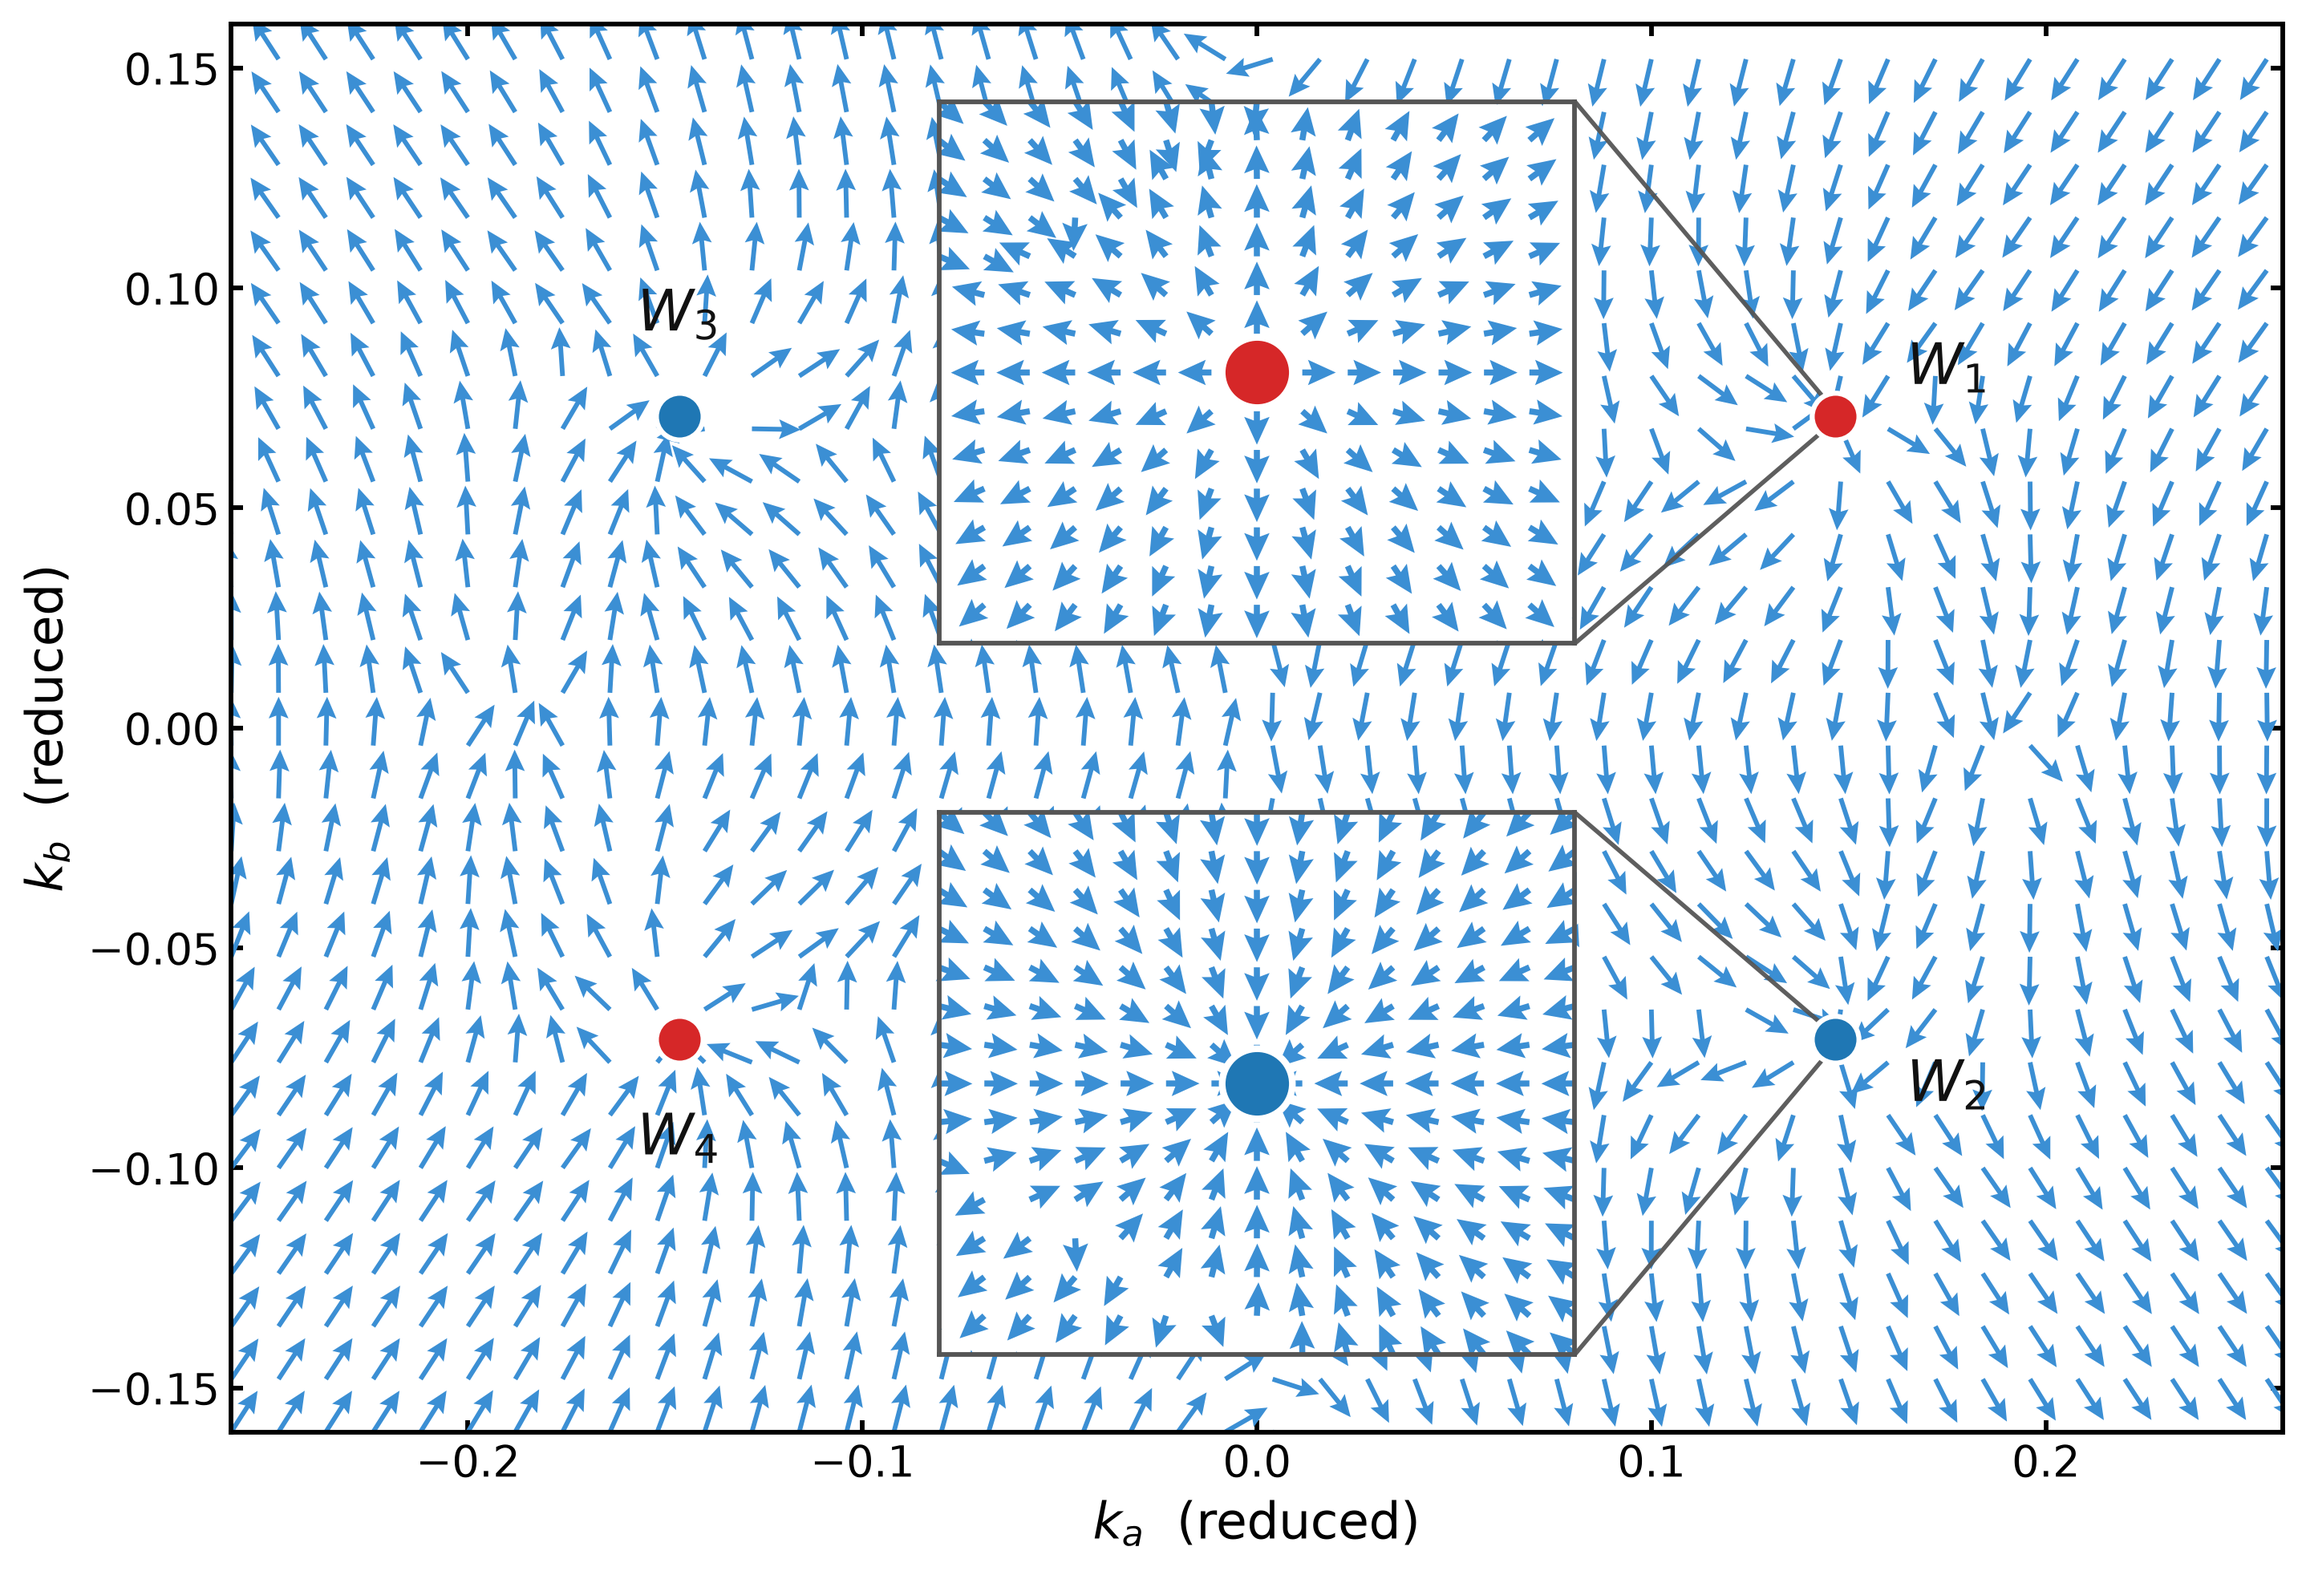
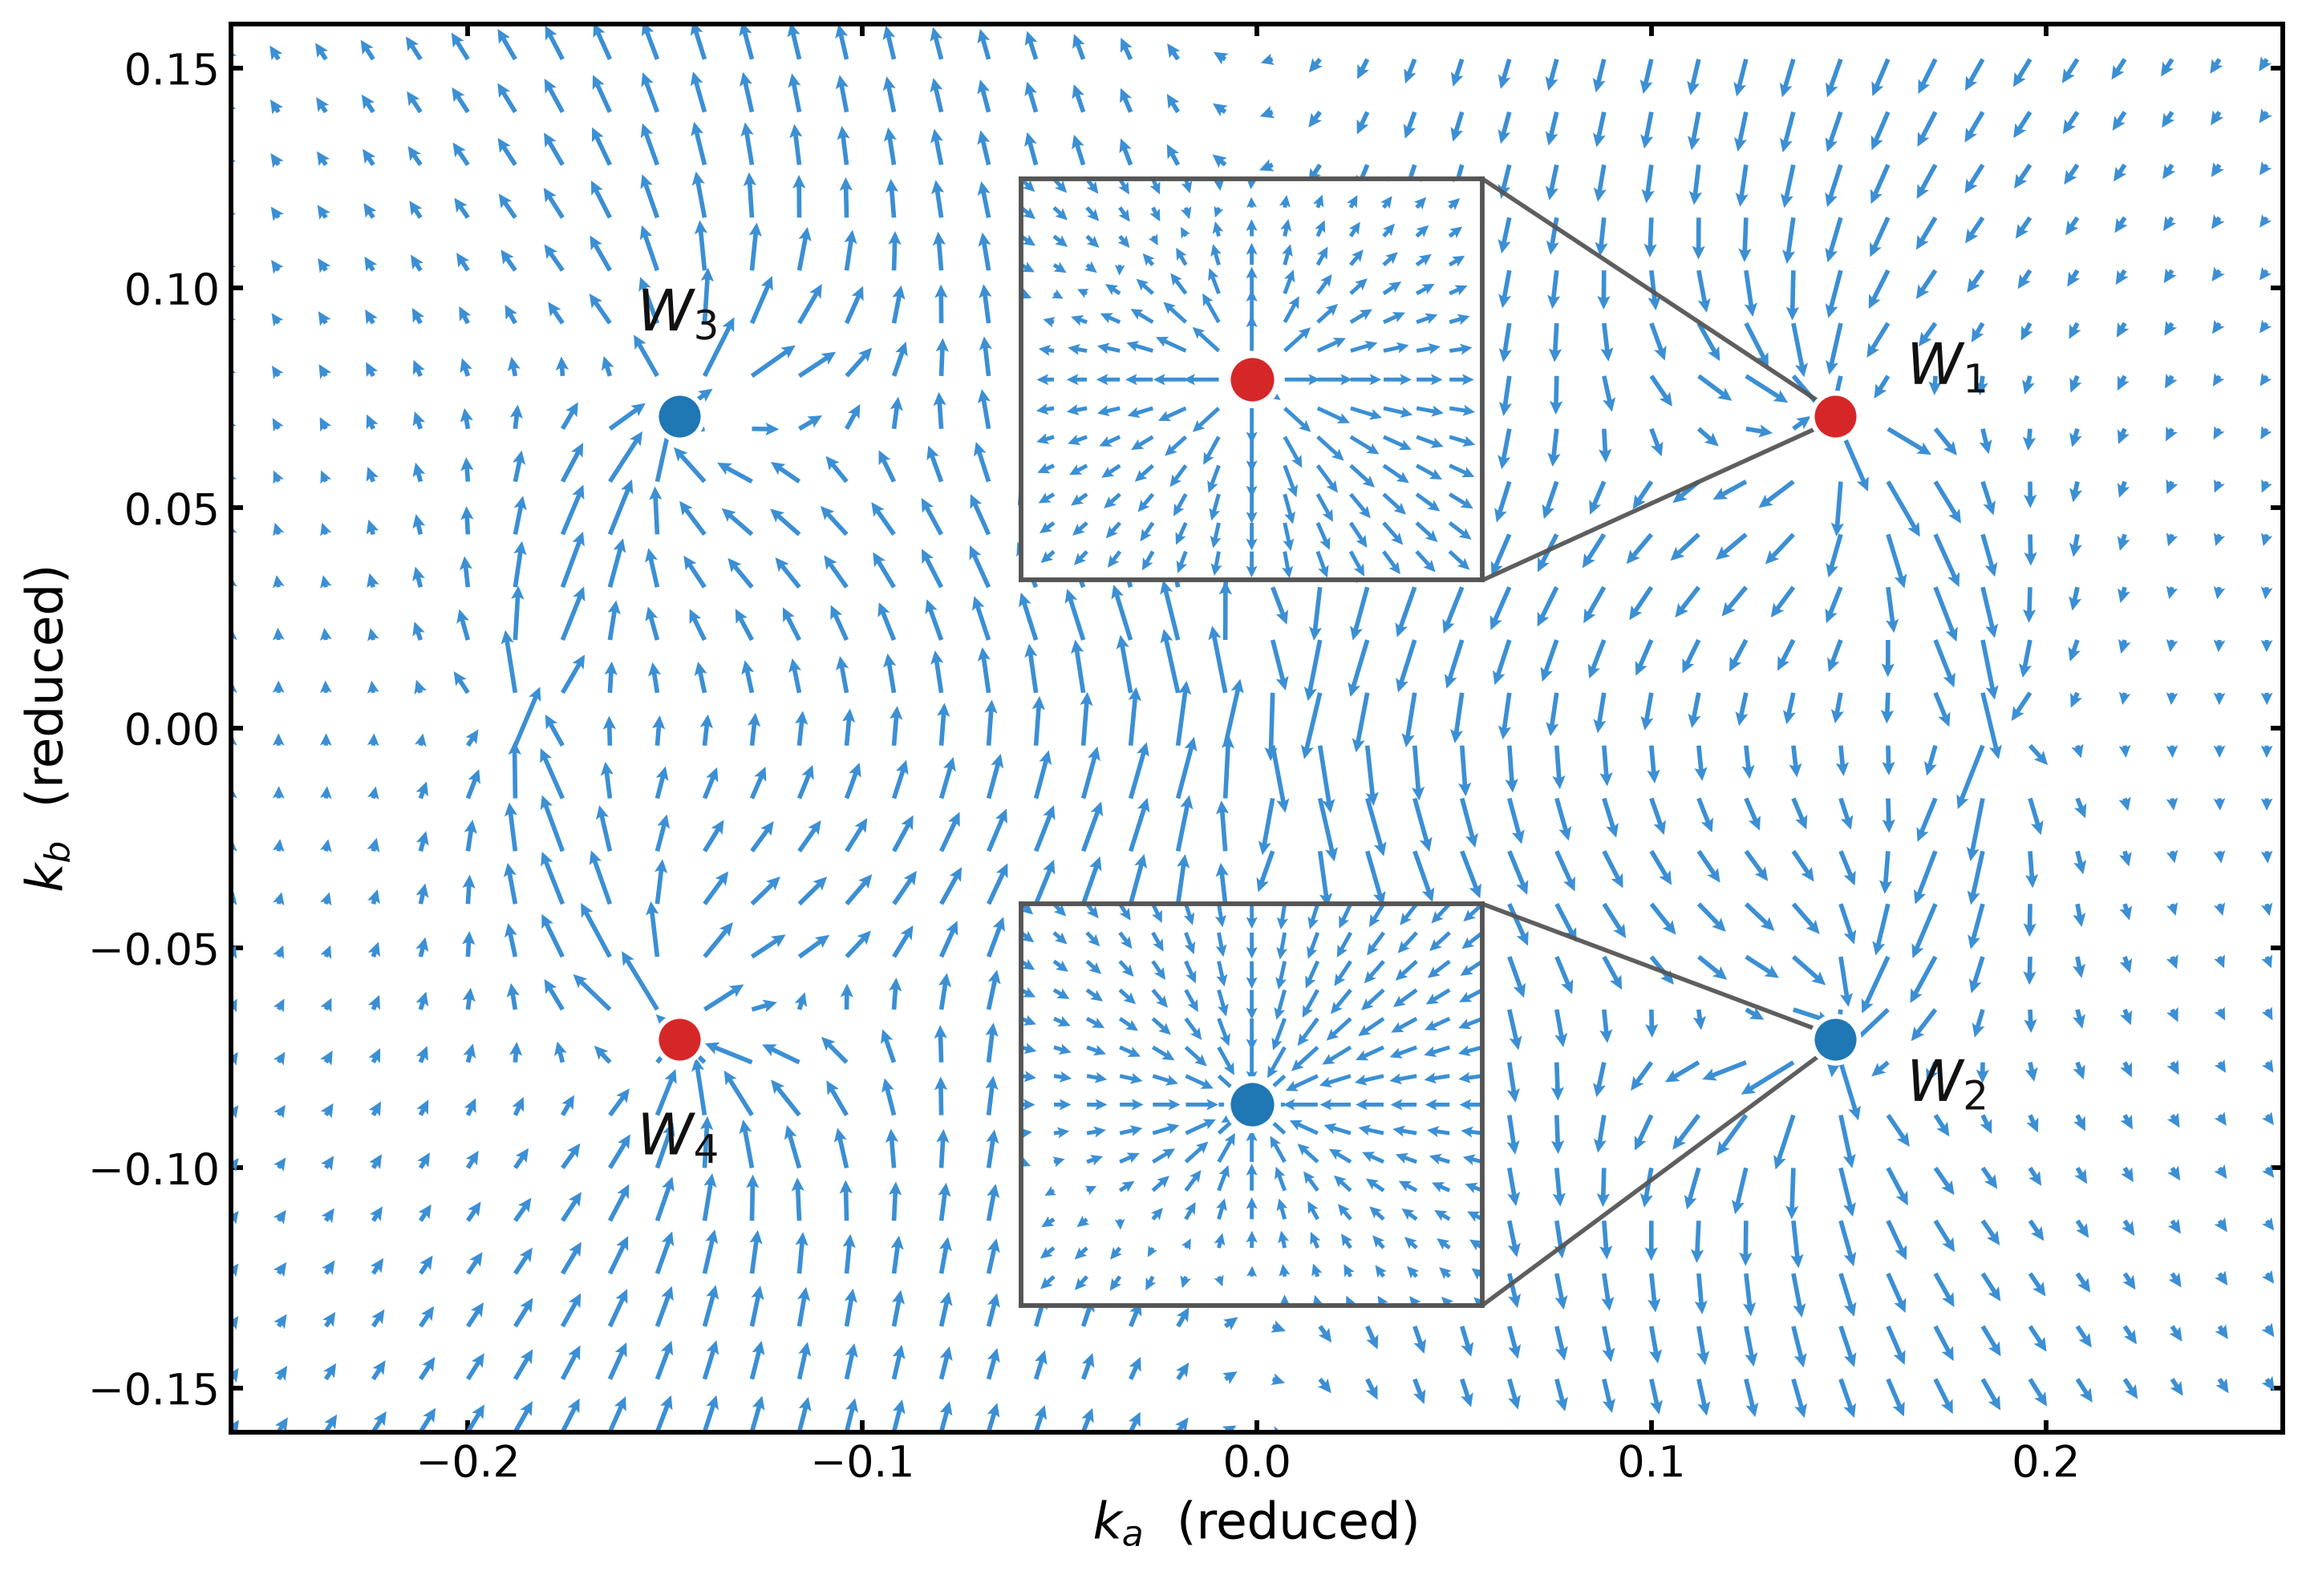
fig9: 화살표 길이를 log|Omega| 로 동적 스케일, 꼬리 길게, 인셋 축소
- uquiver 가 길이를 log10|Omega| 의 백분위로 정규화해 [floor,1] 로 압축.
  |Omega| 가 노드에서 1/r^2 로 발산하고 먼 곳에선 거의 0 이라 선형 길이는 못 쓴다.
  이제 주 그림에서도 노드 주변 화살표가 길어져 monopole 이 드러난다.
- 머리 축소 (headwidth 4.2->2.9, headlength 4.6->3.0) 로 꼬리를 길게
- 인셋 상자 0.310x0.385 -> 0.225x0.285, 노드 점 ms 21->15

Claude-Session: https://claude.ai/code/session_01QhAUpBYpemnn6yKhi2Mgwn

diff --git a/scripts/figs/fig9_berry_field.py b/scripts/figs/fig9_berry_field.py
@@ -164,19 +164,31 @@ RED, BLU = '#d62728', '#1f77b4'
 ARROW = '#3b8fd4'
 
 
-def uquiver(ax, A, B, u, v, **kw):
-    """방향만 보이는 균일 길이 화살표."""
-    m = np.hypot(u, v); m[m == 0] = 1.0
-    ax.quiver(A, B, u / m, v / m, color=ARROW, angles='xy',
-              scale_units='width', headwidth=4.2, headlength=4.6,
-              headaxislength=4.0, **kw)
+def uquiver(ax, A, B, u, v, lo=8, hi=99, floor=0.18, **kw):
+    """길이를 log|Ω| 로 압축해 넣은 화살표.
+
+    |Ω| 는 노드에서 1/r² 로 발산하고 먼 곳에서는 거의 0 이라 선형 길이로는
+    쓸 수 없다.  log 를 백분위로 정규화해 [floor, 1] 로 눌러 넣는다.
+    꼬리를 길게 보이도록 머리를 작게 잡았다.
+    """
+    m = np.hypot(u, v)
+    good = m > 0
+    L = np.full_like(m, floor)
+    if good.any():
+        lg = np.log10(m[good])
+        a, b = np.percentile(lg, [lo, hi])
+        L[good] = np.clip((lg - a) / max(b - a, 1e-12), 0.0, 1.0) * (1 - floor) + floor
+    mm = np.where(good, m, 1.0)
+    ax.quiver(A, B, u / mm * L, v / mm * L, color=ARROW, angles='xy',
+              scale_units='width', headwidth=2.9, headlength=3.0,
+              headaxislength=2.6, **kw)
 
 
 fig, ax = plt.subplots(figsize=(11.0, 7.6))
 st = 3
 A, B = np.meshgrid(ka[::st], kb[::st], indexing='ij')
 uquiver(ax, A, B, Oa[::st, ::st].copy(), Ob[::st, ::st].copy(),
-        scale=42, width=0.0023, zorder=2)
+        scale=30, width=0.0022, zorder=2)
 
 LBL = {0: (34, 14), 1: (34, -14), 2: (0, 30), 3: (0, -30)}
 for n, (a, bb, c) in enumerate(NODES):
@@ -189,13 +201,14 @@ for n, (a, bb, c) in enumerate(NODES):
 # 확대 인셋 — 노드가 없는 가운데 세로 띠에 두고 연결선으로 잇는다
 for (a, bb, c), xa, xb, ua, ub, loc in zip(
         INS, lka, lkb, lOa, lOb,
-        ([0.345, 0.560, 0.310, 0.385], [0.345, 0.055, 0.310, 0.385])):
+        ([0.385, 0.605, 0.225, 0.285], [0.385, 0.090, 0.225, 0.285])):
     axi = ax.inset_axes(loc, zorder=12)
     axi.set_facecolor('white')
     axi.patch.set_alpha(1.0)
     A2, B2 = np.meshgrid(xa, xb, indexing='ij')
-    uquiver(axi, A2, B2, ua.copy(), ub.copy(), scale=19, width=0.0095)
-    axi.plot(a, bb, 'o', ms=21, color=RED if c > 0 else BLU,
+    uquiver(axi, A2, B2, ua.copy(), ub.copy(), scale=13, width=0.0085,
+            lo=5, hi=95, floor=0.30)
+    axi.plot(a, bb, 'o', ms=15, color=RED if c > 0 else BLU,
              mec='white', mew=2.0, zorder=6)
     axi.set_xlim(xa[0], xa[-1]); axi.set_ylim(xb[0], xb[-1])
     axi.set_xticks([]); axi.set_yticks([])
